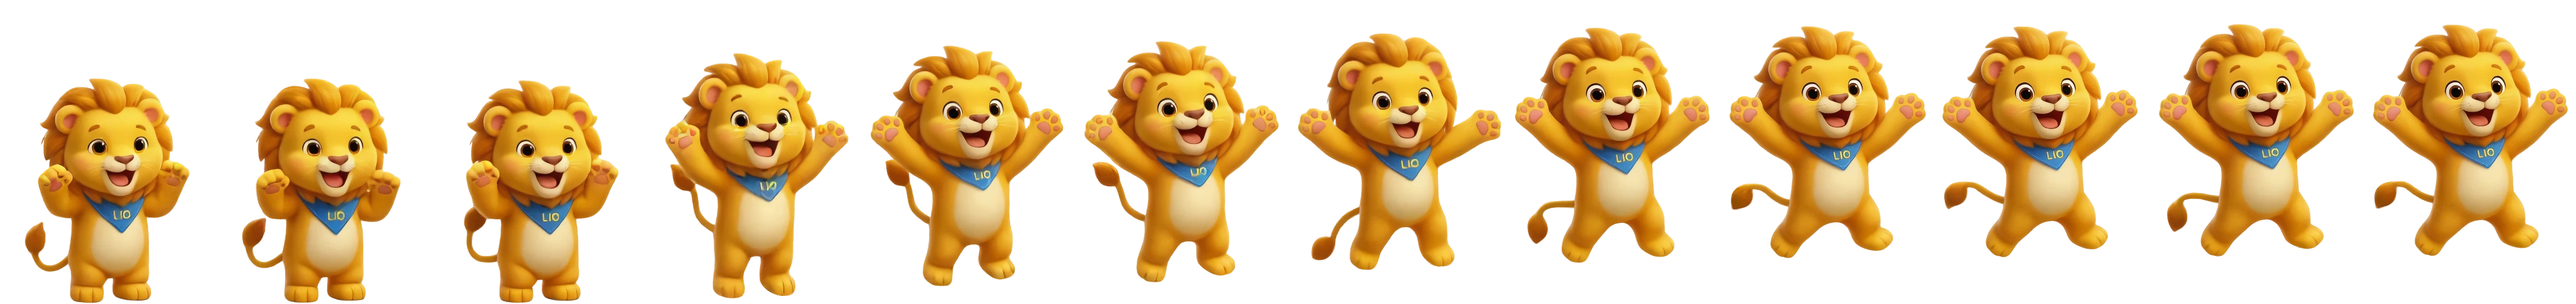
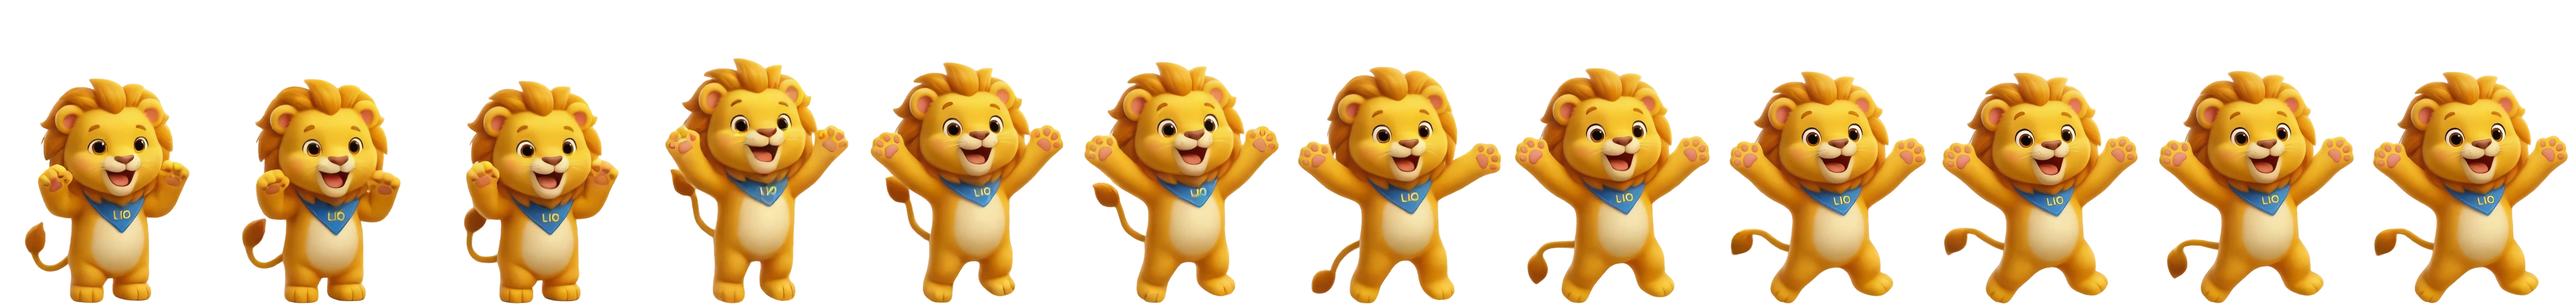
slide 16 비를 confetti 수준·수직 낙하로, slide 51 LIO 떨림 제거
■ slide 16 비 (오답)
정답 confetti 를 기준으로 삼았다(base.css:467) — top:60px · height:40% 만 덮고 wash 없이
타일 간격 80~120px 로 성기다. 기존 비는 inset:0 전체 + 남색 wash + 가로 간격 27/19px 로
훨씬 무거웠다.
- wash 제거. 대신 빗줄기 색을 흰색 → 청회색(rgba(74,105,180,…))으로 바꿨다. 흰색은
  지문·대화 패널이 흰색이라 wash 없이는 보이지 않는다.
- 상단 띠(top:60px · height:64%)로 좁히고 아래는 마스크로 페이드 — 띠 끝에서 빗줄기가
  잘려 보이지 않게.
- 가로 간격 27→86px · 19→112px, 레이어당 줄 수도 2→1 (전체 4줄 → 2줄).
- 사선(rotate 6deg/9deg) 제거 → 위에서 아래로 곧게 떨어진다.

■ slide 51 LIO 떨림
원인은 순서가 아니라 '96px 상승을 시트에 구워 넣은 것' 이었다. 발밑이
  617 616 616 607 583 575 549 535 525 523 522 521
로 3프레임 정지 → 25px 두 번 급등 → 정점에선 1~2px. 1차 추세를 제거해도 잔차가 폭
29.8px(프레임당 최대 14px)이고 37.5ms/프레임이라 이게 진동으로 보였다.
- 모든 프레임 발밑을 617 로 정렬해(편차 1px) 상승을 시트에서 빼고, 96px 은 CSS
  bLioHop(translateY -15.534% = 96/618) 으로 옮겼다. 자세는 steps(12) 로 넘어가고 수직
  이동만 보간되어 완전히 매끄럽다. ease-out + alternate 라 오를 때 감속·내릴 때 가속.
- 프레임이 원본 칸 그대로임을 확인하고(실루엣차 0.00 · 가로 오프셋 0) 원본 PNG 에서
  다시 만들어 재인코딩 손실도 없앴다. 가로 정렬은 건드리지 않았다 — 머리중심 잔차
  8.2px 은 실제 머리 기울기라, 전에 발 중앙으로 맞추려다 몸을 밀어버린 실수를 반복하지
  않기 위해.
- 하트의 bHeartRide(프레임별 상승량을 손으로 넣은 12단 top 키프레임) 삭제. 호스트를
  옮기면 배경(사자)과 ::after(하트)가 함께 움직인다.

검증 : 실제 화면에서 호스트 top 이 67.0 → -19.3 으로 이동하며 프레임 간 이동량이
15.3 → 14.0 → 12.9 → 11.6 → 10.3 → 8.8 → 6.9 → 4.7 → 1.8px 로 단조 감소(정지·급등 없음).
또 음수 animation-delay 를 CSS 로 못박은 정적 페이지로 6시점을 재서 갈기 최상단 변위가
예측(-11.3 -39.8 -43.6 -46.0 -50.0)과 실측(-11 -40 -44 -46 -50)으로 일치함을 확인했다.
※ JS 로 일시정지시키는 캡처는 정지 적용 전에 찍히는 경우가 있어 신뢰할 수 없다.
  발밑은 물결에 가려지고(의도된 구성) 폭은 하트가 섞여, 그 두 값으로는 검증하면 안 된다.

diff --git a/designB/theme-b.css b/designB/theme-b.css
@@ -568,40 +568,38 @@ body{background:radial-gradient(1200px 600px at 50% -10%,#dfe8ff,#e9eefb)}
      12장에서 인접 차이 최대 32.6(웅크림이 풀리며 팔이 벌어지는 실제 동작) · 평균 22.2 ·
      머리 중심 흔들림 최대 8px. 남은 4장(1-1 · 1-3 · 1-4 · 4-1)은 어디에 끼워도 이웃과의
      차이가 39~57 로 벌어져 다시 떨리므로 뺐다.
-   발밑 615 → 519 로 96px(전체 진폭) 오르고, alternate 로 하강을 되짚어 폴짝 한 번이 0.9s.
+   ★ 떨림의 실제 원인은 순서가 아니라 '상승을 시트에 구워 넣은 것' 이었다. 발밑이
+     617·616·616·607·583·575·549·535·525·523·522·521 로 3프레임 정지 → 25px 두 번 급등 →
+     정점에선 1~2px. 1차 추세를 제거해도 잔차가 폭 29.8px(프레임당 최대 14px)이고,
+     37.5ms/프레임이라 이게 진동으로 보였다.
+     → 모든 프레임 발밑을 617 로 정렬해(편차 1px) 상승을 시트에서 빼고, 96px 은 아래
+       bLioHop(translateY) 로 옮겼다. 자세는 steps 로 넘어가고 수직 이동만 보간되어
+       완전히 매끄럽다. 프레임은 원본 칸 그대로라(가로 오프셋 0) 원본에서 다시 만들었다.
+   폴짝 한 번이 0.9s (오르기 .45s + alternate 로 내려오기 .45s).
    가로는 스카프 중심(가장 안정적인 기준)을 기존 에셋에 맞췄고 머리-발은 slide 5 와 같은 485.5px. */
 .scr-quick_exit .qe-scrim{display:block;inset:auto;
   left:2.41%;bottom:15.50%;width:39.60%;aspect-ratio:436/618;
   z-index:0;pointer-events:none;
   background:url("../IMAGE/b/lio_fp_cheer.webp") no-repeat 0% 0 / 1200% 100%;
-  animation:bLioCheer .45s steps(12,jump-none) infinite alternate}
+  animation:bLioCheer .45s steps(12,jump-none) infinite alternate,
+            bLioHop   .45s ease-out          infinite alternate}
 @keyframes bLioCheer{from{background-position:0% 0} to{background-position:100% 0}}
+/* 96px / 시트 높이 618px = 15.534%. translate 의 % 는 요소 자기 크기 기준이라
+   해상도가 달라져도 어긋나지 않는다.
+   ease-out : 뛰어오를수록 느려지는 실제 도약. alternate 로 되짚으면 내려올 때는
+   반대로 가속(ease-in)이 되어 낙하가 자연스럽다. */
+@keyframes bLioHop{from{transform:translateY(0)} to{transform:translateY(-15.534%)}}
 /* 하트 말풍선 — 원래 lio_intro_fp2.png 안에 합쳐져 있던 것을 잘라낸 에셋
-   (IMAGE/b/bubble_heart.png · 146×141, HI!/GO 와 같은 규격). 위치는 원래 자리에서 시작.
-   사자가 96px 뛰어올라 제자리에 두면 정점에서 얼굴과 겹치므로, 프레임별 상승량을 그대로
-   top 키프레임에 넣어 같이 올라가게 했다 — top 의 % 는 호스트 높이 기준이라 해상도가
-   달라져도 어긋나지 않는다. 스프라이트와 같은 steps(12,jump-none)·같은 duration.
+   (IMAGE/b/bubble_heart.png · 146×141, HI!/GO 와 같은 규격).
+   전에는 프레임별 상승량을 top 키프레임(bHeartRide)에 손으로 넣어 사자를 따라 올라가게
+   했지만, 이제 상승이 호스트의 translateY 라서 배경(사자)과 ::after(하트)가 함께 움직인다
+   — 키프레임을 지웠고 둥둥 뜨는 bBubbleFloat 만 남는다.
    에셋에 그림자가 없어 알파 모양을 따르는 drop-shadow 를 준다. */
 .scr-quick_exit .qe-scrim::after{content:'';position:absolute;
   left:85.18%;top:24.39%;width:15.91%;aspect-ratio:146/141;
   background:url("../IMAGE/b/bubble_heart.png") no-repeat center/contain;
   filter:drop-shadow(0 clamp(2px,.45cqw,7px) clamp(4px,.85cqw,13px) rgba(6,18,52,.32));
-  animation:bBubbleFloat 2.4s ease-in-out infinite,
-            bHeartRide   .45s steps(12,jump-none) infinite alternate}
-@keyframes bHeartRide{
-  0.0000% {top:24.389%}
-  9.0909% {top:24.389%}
-  18.1818% {top:24.389%}
-  27.2727% {top:22.933%}
-  36.3636% {top:18.887%}
-  45.4545% {top:17.593%}
-  54.5455% {top:13.548%}
-  63.6364% {top:11.282%}
-  72.7273% {top:9.664%}
-  81.8182% {top:9.341%}
-  90.9091% {top:9.179%}
-  100.0000% {top:8.855%}
-}
+  animation:bBubbleFloat 2.4s ease-in-out infinite}
 @media (prefers-reduced-motion:reduce){
   .scr-quick_exit .qe-scrim,
   .scr-quick_exit .qe-scrim::after{animation:none}
@@ -1509,30 +1507,36 @@ body{background:radial-gradient(1200px 600px at 50% -10%,#dfe8ff,#e9eefb)}
    흰 줄만 쓰면 지문·대화 패널이 흰색이라 보이지 않는다. 그래서 host 에 짙은
    남색 wash 를 얇게 깔고 그 위에 흰 줄을 얹는다 — 비구름처럼 어두워지면서
    가운데 LIO 도 함께 도드라진다. pointer-events:none 이라 조작을 막지는 않는다. */
-.quiz-rain{position:absolute;inset:0;z-index:59;pointer-events:none;overflow:hidden;
-  background:linear-gradient(180deg, rgba(14,30,74,.24) 0%, rgba(14,30,74,.13) 62%, rgba(14,30,74,.06) 100%);
+.quiz-rain{position:absolute;top:60px;left:0;right:0;height:64%;
+  z-index:59;pointer-events:none;overflow:hidden;
+  /* 아래로 갈수록 사라지게 — 띠 끝에서 빗줄기가 잘려 보이지 않게 한다.
+     host 에 마스크를 걸면 가상요소까지 함께 페이드된다(host 자체 배경은 없다) */
+  -webkit-mask-image:linear-gradient(180deg,#000 0 66%, transparent 100%);
+          mask-image:linear-gradient(180deg,#000 0 66%, transparent 100%);
   animation:bRainIn .42s ease-out both, bRainOut .46s ease-in 3.24s both}
 .quiz-rain::before,.quiz-rain::after{content:'';position:absolute;
-  left:-12%;top:-60%;width:124%;height:220%;
+  top:-60%;width:124%;height:220%;
   animation-timing-function:linear;animation-iteration-count:infinite}
-/* 앞쪽(굵고 빠른) 비 */
-.quiz-rain::before{transform:rotate(6deg);
-  background-image:repeating-linear-gradient(180deg, rgba(255,255,255,.52) 0 18px, transparent 18px 96px),
-                   repeating-linear-gradient(180deg, rgba(255,255,255,.30) 0 26px, transparent 26px 148px);
-  background-position:0 0, 0 40px;
-  -webkit-mask-image:repeating-linear-gradient(90deg,#000 0 2px, transparent 2px 27px);
-          mask-image:repeating-linear-gradient(90deg,#000 0 2px, transparent 2px 27px);
+/* 빗줄기 색 : 흰색을 쓰면 지문·대화 패널이 흰색이라 안 보인다. wash 를 깔지 않기로 했으니
+   패널 위에서도 읽히는 청회색으로 칠한다.
+   성기게 : 가로 간격을 27px → 86px(앞) · 19px → 112px(뒤) 로 벌려 confetti 밀도에 맞췄다.
+   레이어도 각 1줄로 줄였다(전에는 레이어마다 2줄, 총 4줄).
+   비는 사선이 아니라 위에서 아래로 곧게 떨어진다 — 두 레이어 모두 회전 없음. */
+.quiz-rain::before{left:-12%;
+  background-image:repeating-linear-gradient(180deg, rgba(74,105,180,.50) 0 18px, transparent 18px 104px);
+  background-position:0 0;
+  -webkit-mask-image:repeating-linear-gradient(90deg,#000 0 2px, transparent 2px 86px);
+          mask-image:repeating-linear-gradient(90deg,#000 0 2px, transparent 2px 86px);
   animation-name:bRainFall1;animation-duration:.62s}
-/* 뒤쪽(가늘고 흐린) 비 — 각도·간격·속도를 달리해 격자무늬로 보이지 않게 한다 */
-.quiz-rain::after{transform:rotate(9deg);filter:blur(.6px);opacity:.85;
-  background-image:repeating-linear-gradient(180deg, rgba(255,255,255,.34) 0 12px, transparent 12px 74px),
-                   repeating-linear-gradient(180deg, rgba(255,255,255,.22) 0 20px, transparent 20px 122px);
-  background-position:0 0, 0 18px;
-  -webkit-mask-image:repeating-linear-gradient(90deg,#000 0 1.5px, transparent 1.5px 19px);
-          mask-image:repeating-linear-gradient(90deg,#000 0 1.5px, transparent 1.5px 19px);
+/* 뒤쪽은 각도·간격·속도를 달리하고 left 를 어긋나게 둬서 두 줄이 겹쳐 보이지 않게 한다 */
+.quiz-rain::after{left:-6%;filter:blur(.5px);opacity:.8;
+  background-image:repeating-linear-gradient(180deg, rgba(74,105,180,.34) 0 12px, transparent 12px 82px);
+  background-position:0 0;
+  -webkit-mask-image:repeating-linear-gradient(90deg,#000 0 1.5px, transparent 1.5px 112px);
+          mask-image:repeating-linear-gradient(90deg,#000 0 1.5px, transparent 1.5px 112px);
   animation-name:bRainFall2;animation-duration:.44s}
-@keyframes bRainFall1{to{background-position:0 96px, 0 188px}}
-@keyframes bRainFall2{to{background-position:0 74px, 0 140px}}
+@keyframes bRainFall1{to{background-position:0 104px}}
+@keyframes bRainFall2{to{background-position:0 82px}}
 @keyframes bRainIn{from{opacity:0} to{opacity:1}}
 @keyframes bRainOut{from{opacity:1} to{opacity:0}}
 @media (prefers-reduced-motion:reduce){

diff --git a/designB/index.html b/designB/index.html
@@ -10,7 +10,7 @@
 <link rel="preconnect" href="https://fonts.gstatic.com" crossorigin>
 <link href="https://fonts.googleapis.com/css2?family=Baloo+2:wght@500;600;700;800&family=Inter:wght@400;500;600;700;800&family=Nunito:wght@400;500;600;700;800;900&display=swap" rel="stylesheet">
 <link rel="stylesheet" href="../prototype/base.css?v=20260807b">
-<link rel="stylesheet" href="theme-b.css?v=20260807a">
+<link rel="stylesheet" href="theme-b.css?v=20260807e">
 </head>
 <body>
 
